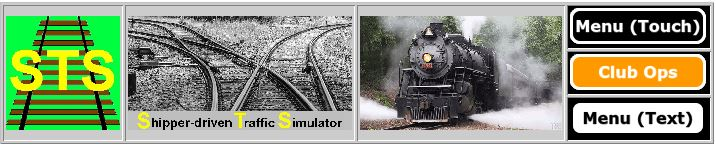
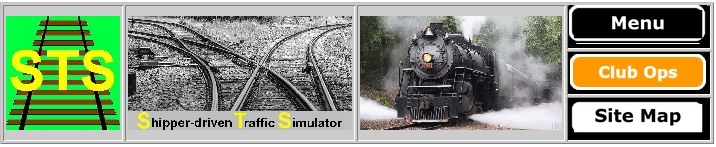
Update embedded header menu labels
Patch the composite header images so settings and related pages use Menu and Site Map instead of the old touch/text labels.

diff --git a/README.md b/README.md
@@ -3,7 +3,7 @@
 
 A containerised fork of the Shipper-Driven Traffic Simulator (STS) model railway operations software. Rather than requiring a local XAMPP or WAMP stack to be installed on your machine, everything — PHP 8, Apache, and MariaDB — runs inside Docker containers.
 
-Current HART fork version: **0.2.4** (see [`VERSION`](VERSION) and [`CHANGELOG.md`](CHANGELOG.md)).
+Current HART fork version: **0.2.5** (see [`VERSION`](VERSION) and [`CHANGELOG.md`](CHANGELOG.md)).
 
 ## Versioning and Recovery
 

diff --git a/CHANGELOG.md b/CHANGELOG.md
@@ -2,6 +2,10 @@
 
 All notable HART fork changes use semantic versioning (`x.y.z`).
 
+## [0.2.5] - 2026-07-04
+
+- Updated embedded header banner labels so pages like System Settings no longer show "Menu (Touch)" or "Menu (Text)".
+
 ## [0.2.4] - 2026-07-04
 
 - Redrew the Menu and Site Map image labels to better match the original STS menu icon font size and borders.
